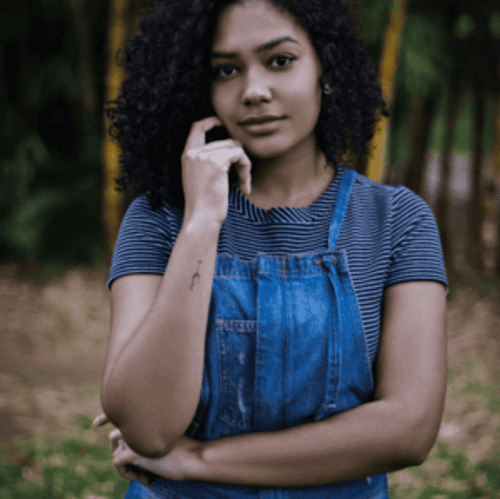
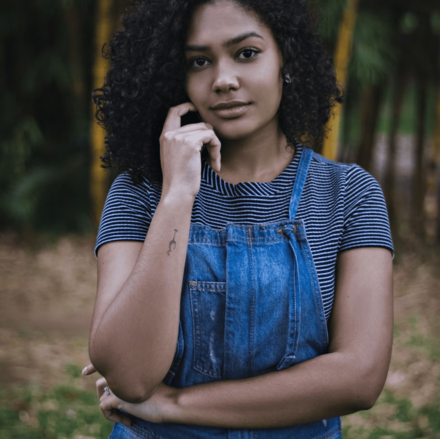
perf: corrected img quality

Changed region(s): [[0.4136, 0.3257, 0.8864, 0.7403], [0.2068, 0.385, 0.3545, 0.5626], [0.4727, 0.6219, 0.5023, 0.6515]]

diff --git a/index.html b/index.html
@@ -24,7 +24,7 @@
 				<li><a href="#services">Service</a></li>
 				<li><a href="#contact">Contact</a></li>
 				<li><a class="social-link" href="https://www.instagram.com/ninacarducci.photo/?hl=fr" target="_blank"><img
-							src="assets/images/instagram.webp" alt="logo d'Instagram"></a></li>
+							src="assets/images/instagram.png" alt="logo d'Instagram"></a></li>
 			</ul>
 		</div>
 	</header>
@@ -67,7 +67,7 @@
 	</section>
 	<section id="about">
 		<div class="picture left">
-			<img src="./assets/images/nina.webp" alt="Portrait de Nina Carducci, la photographe">
+			<img src="./assets/images/nina.png" alt="Portrait de Nina Carducci, la photographe">
 		</div>
 		<div id="about-me">
 			<h2 class="about-me__title">A propos de moi</h2>
